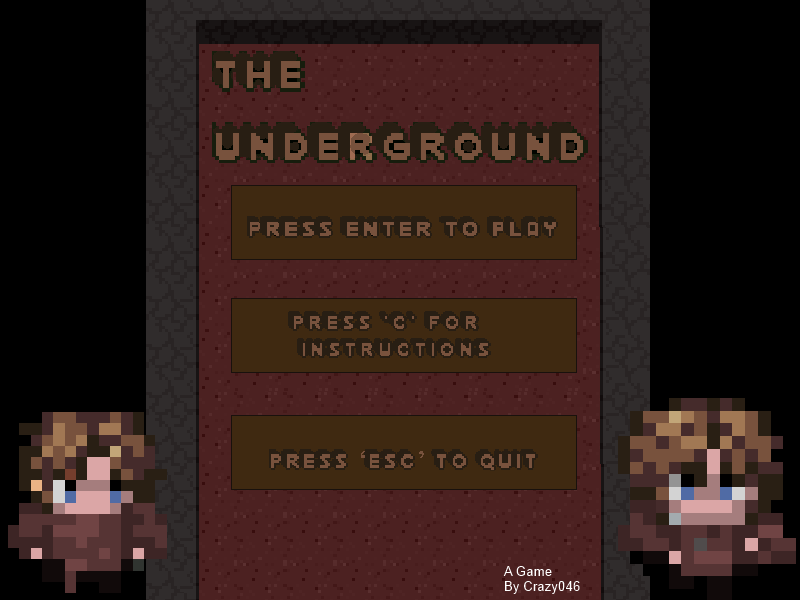
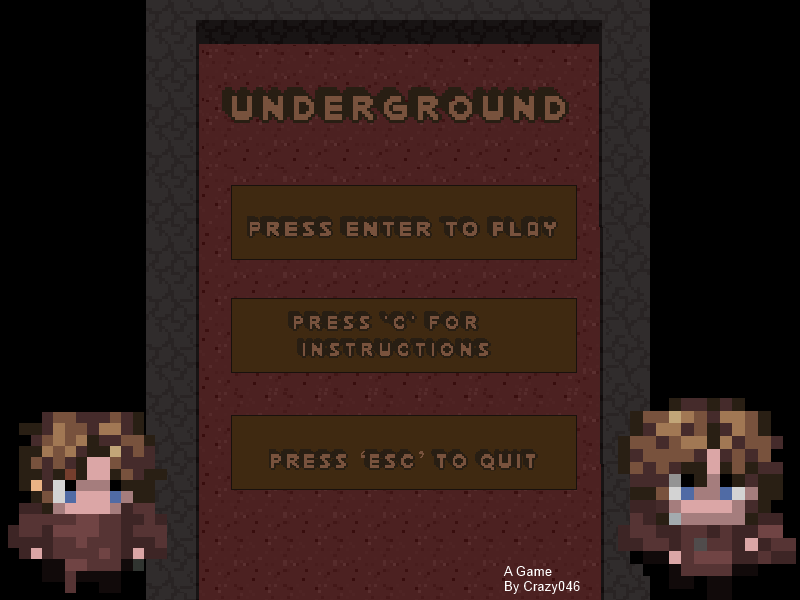
Fixed Graphics + heal sfx

Changed region(s): [[0.25, 0.06, 0.75, 0.27]]

diff --git a/src/net/net23/paulb/ludumdare/game/Ludumdare.java b/src/net/net23/paulb/ludumdare/game/Ludumdare.java
@@ -18,7 +18,7 @@ public class Ludumdare extends StateBasedGame {
 	public static boolean SHOWFPS = true;
 	
 	
-	private static String GAMETITLE = "The Underground";
+	private static String GAMETITLE = "Undground";
 	private static int SCREENWIDTH = 800;
 	private static int SCREENHEIGHT= 600;
 	
